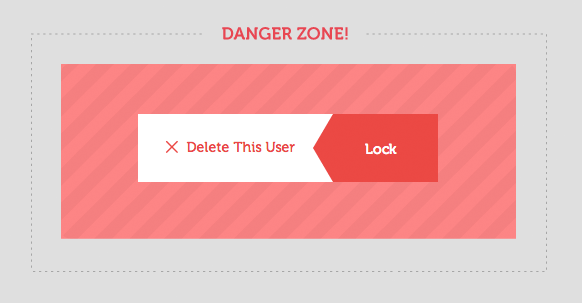
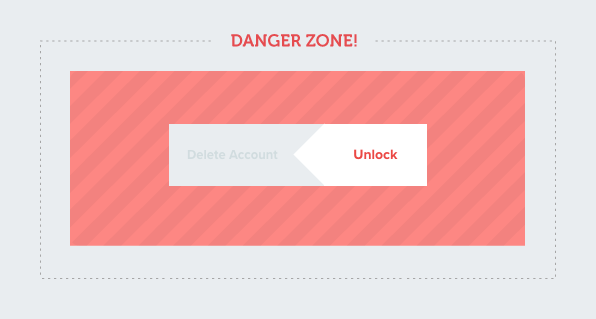
added images and other updates

diff --git a/source/domains-networking/ssl-tls/adding.html.md b/source/domains-networking/ssl-tls/adding.html.md
@@ -4,18 +4,18 @@ title: Adding SSL/TLS
 
 Normally the process of adding SSL to your app is tedious complicated, but with Nanobox, we've tried to make it as simple as possible. To get started, click on the "Network" tab of your application dashboard and go to "SSL/TLS Certificates". Then click "New SSL/TLS Certificate".
 
-![New SSL/TLS Certificate](/src-images/tls-add.png)
+![New SSL/TLS Certificate](/src-images/ssl-tls-add.png)
 
-In order to generate a certificate, specific information is required. Provide the necessary information and save.
+In order to generate a certificate, specific information is required. Provide the necessary information and click "Create Certificate".
 
-![Certificate Information](/src-images/tls-required-info.png)
+![Certificate Information](/src-images/ssl-tls-required-info.png)
 
 ## Certificate Bundles
-With the information provided, you can now create a certificate "bundle". A bundle is comprised of a Private Key, a Certificate, and a Certificate Authority (CA) - all the files required to install a certificate on a server. There are different types of bundles and you can have multiple bundles.
+With the information provided, you can now create a certificate "bundle". A bundle consists of a Private Key, a Certificate, and a Certificate Authority (CA) - all the files required to install a certificate on a server.
 
 To create a new bundle, click "New Bundle".
 
-![Create New Bundle](/src-images/tls-new-bundle.png)
+![Create New Bundle](/src-images/ssl-tls-new-bundle.png)
 
 There are different bundle types to choose from when creating a new bundle:
 
@@ -38,14 +38,12 @@ If you've purchased an SSL certificate from a 3rd Party SSL provider and have no
 #### 1. Submit Your CSR to Your SSL Provider
 With your private key generated, we then create and provide a Certificate Signing Request (CSR). Submit your CSR to your SSL provider. They will use it to generate a certificate and certificate authority that matches your private key.
 
-![Certificate Request](/src-images/ssl-tls-cert-request.png)
+![Certificate Request](/src-images/ssl-tls-csr.png)
 
-*Be sure to copy the full contents of your Certificate Request.*
+*Be sure to copy the full contents of your CSR.*
 
 #### 2. Paste in Your Certificate & Certificate Authority
 Your SSL provider will make available files that include your Certificate and Certificate Authority and possibly [intermediate certificates](#intermediate-certificates). Paste the full contents of these files into the corresponding fields in your dashboard.
-
-![Cert & CA](/src-images/ssl-tls-cert-ca.png)
 
 *Be sure to paste the full contents of your Certificate and Certificate Authority.*
 
@@ -58,7 +56,7 @@ Some SSL providers provide intermediate certificates that are part of your certi
 If you have a certificate that has already been keyed and used on another host, you can import that certificate into Nanobox. You'll need your cert's key, certificate, and CA. These can be obtained from either your SSL/TLS provider or where your certificate is currently installed. Paste the full contents of each into the corresponding fields to complete your bundle.
 
 ## Activate a Bundle
-With a bundle created, it's ready to be installed. To install a bundle in your running app, click "Active" next to the bundle.
+With a bundle created, it's ready to be installed. To install a bundle in your running app, click "Activate" next to the bundle.
 
 ![Activate Bundle](/src-images/ssl-tls-bundle-activate.png)
 

diff --git a/source/getting-started/launch-app.html.md b/source/getting-started/launch-app.html.md
@@ -2,7 +2,7 @@
 title: Launch an App
 ---
 
-**Note:** To launch an app, you must first setup a hosting provider. This process is covered in the [Hosting Providers doc](/account/providers/).
+**Note:** To launch an app, you must first setup a hosting account. This process is covered in the [Hosting Accounts doc](/account/hosting-accounts/).
 
 To get started, click the "Launch New App" button in your dashboard.
 
@@ -11,7 +11,9 @@ To get started, click the "Launch New App" button in your dashboard.
 ### Name Your App
 Next, provide a name for your app. If no name is provided, we will generate one for you.
 
-### Select Your Provider
-Last, select your provider and region. This is the infrastructure on which your app's platform and server(s) will be provisioned.
+### Select Your Provider & Region
+Last, select your provider/hosting account and region. This is the infrastructure on which your app's platform and server(s) will be provisioned.
+
+![Select Provider & Region](/src-images/app-launch-provider-region.png)
 
 Once saved, we will provision an empty app server using your provider account. When you're ready, you can [deploy your codebase to your app](/getting-started/deploy-code/).

diff --git a/source/account/creating-an-account.html.md b/source/account/creating-an-account.html.md
@@ -2,8 +2,8 @@
 title: Creating an Account
 ---
 
-<div style=" padding: 1em 1.35em; margin-bottom: 2em; color: #fff; background: #45A8D0; -webkit-border-radius: .4em; -moz-border-radius: .4em; border-radius: .4em;">
-  <p style="margin: 0; line-height: 1.5em; ">Nanobox is currently in Private Beta. In order to create an account, you must have a Private Beta invitation. You can request access to our Private Beta on <a href="https://nanobox.io" style="color: #fff;">our home page</a>.</p>
+<div style=" padding: 1em 1.35em; margin-bottom: 2em; color: #fff; background: #23aaf4; -webkit-border-radius: .4em; -moz-border-radius: .4em; border-radius: .4em;">
+  <p style="margin: 0; line-height: 1.5em; ">Nanobox is currently in Private Beta. In order to create an account, you must have a Private Beta invitation. To request access to our Private Beta, shoot an email to <a href="mailto:hello@nanobox.io?subject=I want in the Private Beta!" target="\_blank" style="color: #fff;">hello@nanobox.io</a>.</p>
 </div>
 
 To create an account on Nanobox, go to [dashboard.nanobox.io/users/sign_up](https://dashboard.nanobox.io/users/sign_up) and fill out the necessary information.

diff --git a/source/app-config/environment-variables.html.md b/source/app-config/environment-variables.html.md
@@ -56,11 +56,11 @@ DATA_CTHULU_NAME
 Custom environment variables can be added to your production app through your dashboard, or to both production and local dev apps using the Nanobox CLI's ['evar' command](/cli/evar/).
 
 ### Adding Environment Variables in the Dashboard
-Environment variables can be added in your dashboard under Dev Config > Environment Variables. Simply add a key and a value, then save.
+Environment variables can be added in your dashboard under Config > Environment Variables. Simply add a key and a value, then save.
 
 ![Adding Environment Variables](/src-images/evar-add.png)
 
-**Note:** Newly added or updated environment variables will not apply to the live environment until the next build or deploy.
+**Note:** Newly added or updated environment variables will not apply to the live environment until the next deploy.
 
 ### Adding Environment Variables Through the CLI
 The Nanobox CLI's `evar` command allows you easily manage environment variables.

diff --git a/source/app-management/log-management.html.md b/source/app-management/log-management.html.md
@@ -10,13 +10,13 @@ All application logs are aggregated and streamed in a unified log stream. This a
 ## Viewing Logs in Your Dashboard
 Logs can be accessed in your app dashboard under the "Logs" tab. There are two types of available logs:
 
-- Streaming
+- Live Stream
 - Historical
 
 ![Dashboard Logs](/src-images/log-management-dashboard.png)
 
-### Streaming Logs
-Streaming logs display your app's live log stream. These allow you to see errors in your application as they happen. Each log entry is timestamped and flagged with the component-ID and specific log from which it came.
+### Live Stream
+Live Stream streams your app's logs. These allow you to see errors in your application as they happen. Each log entry is timestamped and flagged with the component-ID and specific log from which it came.
 
 With Streaming logs, only logs entries written after the stream is started are viewable. Any log entries written prior can be viewed in Historical logs.
 

diff --git a/source/account/removing-an-account.html.md b/source/account/removing-an-account.html.md
@@ -4,6 +4,6 @@ title: Removing an Account
 
 While we hate to see anyone leave Nanobox, we understand that sometimes an account just needs to be removed. In order to remove your account, you must first remove yourself as a team member from all apps or, if you’re the apps’ sole owner, delete the app(s).
 
-To delete your account, go to Account Admin > Account Management. Once your user is no longer associated with any apps, you’ll be given the option to unlock the delete button. Click “Unlock”, “Delete this user”, then type in your username and click “Delete User Forever!”.
+To delete your account, go to Account Admin > Account Management. Once your user is no longer associated with any apps, you’ll be given the option to unlock the delete button. Click “Unlock”, “Delete Account”, then type in your username and click “Delete User Forever!”.
 
 ![Delete Your User](/src-images/account-delete.png)

diff --git a/source/scaling/how-to-scale.html.md b/source/scaling/how-to-scale.html.md
@@ -11,7 +11,7 @@ The resource controller allows to [scale vertically](/scaling/scaling-methods/#v
 
 ![Scaling Server Resources](/src-images/scale-resource-controller.png)
 
-What resource options are available depend on what options your [hosting provider](/account/providers/) has made available. These options are pulled directly from each provider.
+What resource options are available depend on what options your [hosting provider](/account/hosting-accounts/) has made available. These options are pulled directly from each provider.
 
 ### The Node Controller
 The Node controller allows you to [scale horizontally](/scaling/scaling-methods/#horizontal-scaling) by specifying the number of nodes in a cluster. It comes in two forms depending on the type of component. Web and worker can scale to an infinite number of nodes. In these components, horizontal scaling is controlled through a slider.

diff --git a/source/app-management/delete-app.html.md b/source/app-management/delete-app.html.md
@@ -6,6 +6,6 @@ To delete an app, go to the "Admin" tab of or your app dashboard, then click on 
 
 ![Deleting an App](/src-images/app-delete.png)
 
-Click the "Unlock" button, then click "Delete this app". You will be prompted to type the name of the application. Once submitted, the app will be deleted and all application servers will be decommissioned.
+Click the "Unlock" button, then click "Delete App". You will be prompted to type the name of the application. Once submitted, the app will be deleted and all application servers will be decommissioned.
 
 **Warning:** *Deleting an app cannot be undone. Servers are decommissioned and any code/data left on them cannot be recovered.*

diff --git a/source/domains-networking/ssl-tls/managing.html.md b/source/domains-networking/ssl-tls/managing.html.md
@@ -25,6 +25,6 @@ To delete a certificate, click on the certificate in your dashboard. Once inside
 ![Delete Certificate](/src-images/ssl-tls-delete-cert.png)
 
 ## Delete a Bundle
-To delete a bundle, click on the certificate in your dashboard, the the bundle you'd like to delete. Once inside your bundle view, click the "Delete Bundle" button to delete the bundle.
+To delete a bundle, click on the certificate in your dashboard, then "Manage" next to the bundle you'd like to delete. Once inside your bundle view, click the "Delete Bundle" button to delete the bundle.
 
 ![Delete Bundle](/src-images/ssl-tls-delete-bundle.png)

diff --git a/source/account/index.html.md b/source/account/index.html.md
@@ -2,4 +2,4 @@
 title: Account Management
 ---
 
-We've tried to make managing user accounts on Nanobox as simple as possible. The next few docs walk through account create, management, and removal. 
+We've tried to make managing user accounts on Nanobox as simple as possible. The next few docs walk through account creation, management, and removal. 
